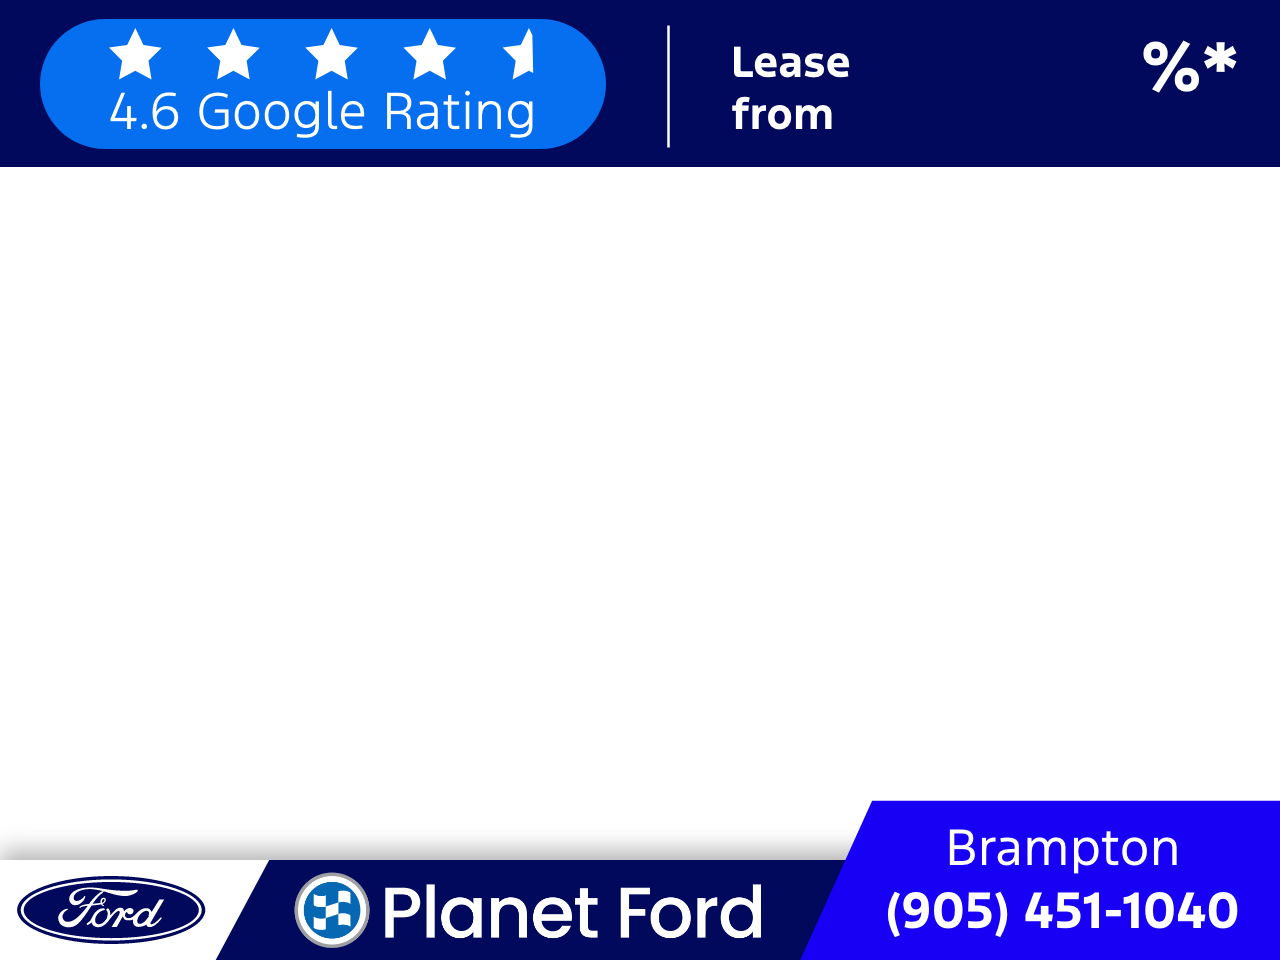
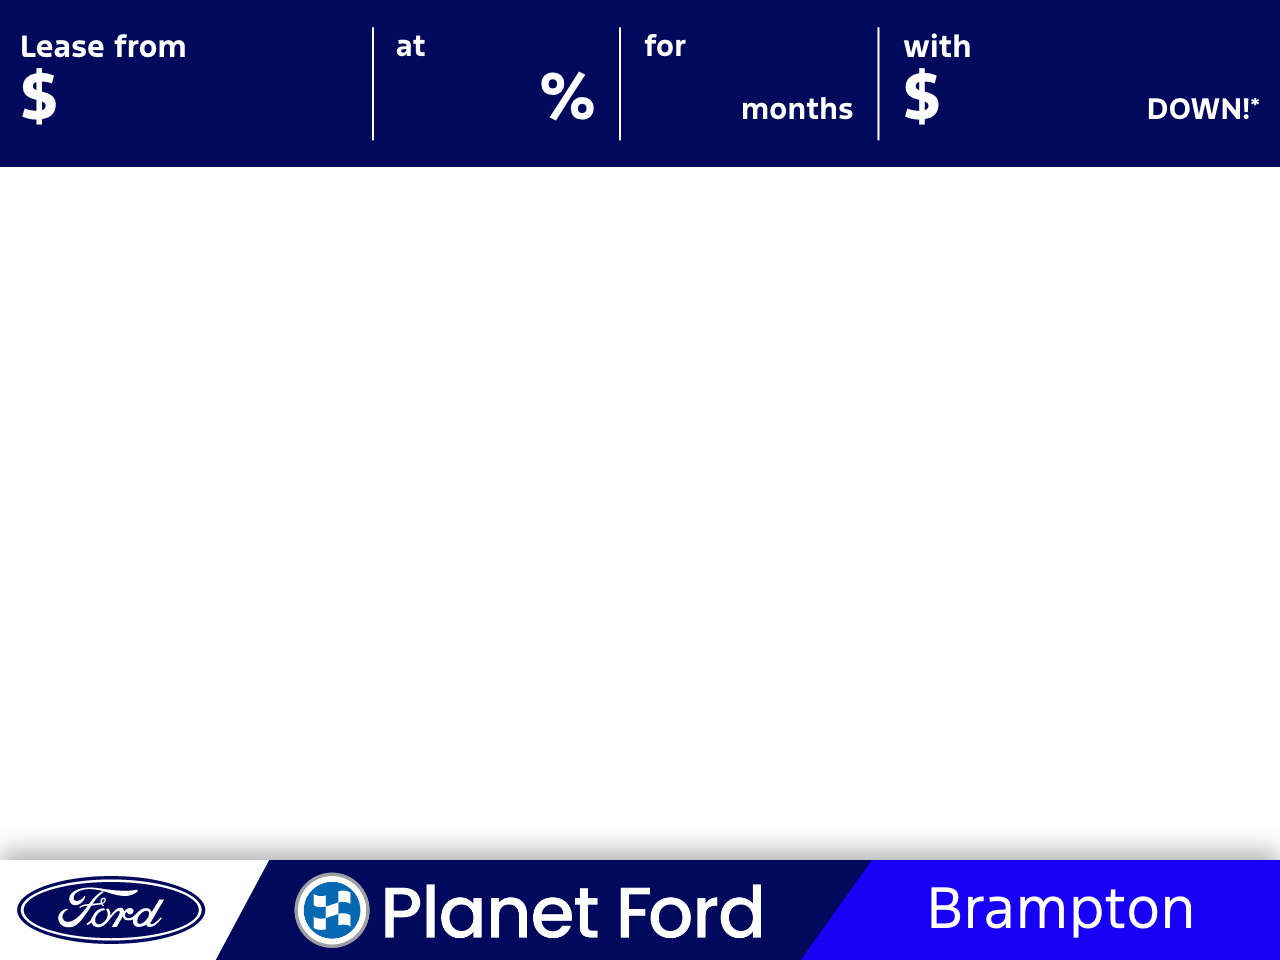
Lease tile: four variable fields (payment, rate, term, down)
Swap template.png for the new lease tile and rewrite index.html so the
tool takes bi-weekly payment, rate, term and down payment, drawing each
number where the X placeholders sit on reference-layout.png. Long values
shrink to fit between the printed labels.

diff --git a/index.html b/index.html
@@ -27,86 +27,87 @@
 
         body {
             font-family: 'Ford Antenna Cond', 'Arial Narrow', sans-serif;
-            background: var(--bg-gray); 
-            display: flex; 
-            flex-direction: column; 
-            align-items: center; 
-            padding: 40px 20px; 
-            margin: 0; 
+            background: var(--bg-gray);
+            display: flex;
+            flex-direction: column;
+            align-items: center;
+            padding: 40px 20px;
+            margin: 0;
         }
-        
-        .container { 
-            background: white; 
-            padding: 35px; 
-            border-radius: 16px; 
-            box-shadow: 0 10px 30px rgba(0,0,0,0.1); 
-            max-width: 1000px; 
-            width: 100%; 
-            text-align: center; 
+
+        .container {
+            background: white;
+            padding: 35px;
+            border-radius: 16px;
+            box-shadow: 0 10px 30px rgba(0,0,0,0.1);
+            max-width: 1000px;
+            width: 100%;
+            text-align: center;
         }
-        
-        h2 { 
-            margin-top: 0; 
-            color: var(--brand-black); 
+
+        h2 {
+            margin-top: 0;
+            color: var(--brand-black);
             text-transform: uppercase;
             letter-spacing: 1px;
         }
 
-        .controls { 
-            display: flex; 
-            justify-content: center; 
-            gap: 20px; 
-            margin-bottom: 30px; 
-            align-items: flex-end; 
+        .controls {
+            display: flex;
+            justify-content: center;
+            gap: 20px;
+            margin-bottom: 30px;
+            align-items: flex-end;
+            flex-wrap: wrap;
         }
-        
-        .field-group { 
-            display: flex; 
-            flex-direction: column; 
-            text-align: left; 
+
+        .field-group {
+            display: flex;
+            flex-direction: column;
+            text-align: left;
         }
-        
-        label { 
-            font-size: 11px; 
-            font-weight: 700; 
-            color: #666; 
-            margin-bottom: 8px; 
-            text-transform: uppercase; 
+
+        label {
+            font-size: 11px;
+            font-weight: 700;
+            color: #666;
+            margin-bottom: 8px;
+            text-transform: uppercase;
         }
-        
-        input { 
-            padding: 12px; 
-            border-radius: 8px; 
-            border: 2px solid var(--brand-black); 
-            font-size: 24px; 
-            font-weight: 800; 
-            width: 180px; 
-            text-align: center; 
-            outline: none; 
+
+        input {
+            padding: 12px;
+            border-radius: 8px;
+            border: 2px solid var(--brand-black);
+            font-size: 24px;
+            font-weight: 800;
+            width: 140px;
+            text-align: center;
+            outline: none;
         }
-        
-        button { 
-            background: var(--brand-black); 
-            color: white; 
-            border: none; 
-            padding: 16px 32px; 
-            border-radius: 8px; 
-            font-size: 16px; 
-            font-weight: 800; 
-            cursor: pointer; 
-            transition: 0.2s; 
+
+        button {
+            background: var(--brand-black);
+            color: white;
+            border: none;
+            padding: 16px 32px;
+            border-radius: 8px;
+            font-size: 16px;
+            font-weight: 800;
+            cursor: pointer;
+            transition: 0.2s;
         }
-        
-        button:hover { 
-            background: #333; 
-            transform: translateY(-2px); 
+
+        button:hover {
+            background: #333;
+            transform: translateY(-2px);
         }
-        
-        canvas { 
-            border: 1px solid #eee; 
-            max-width: 100%; 
-            height: auto; 
-            border-radius: 8px; 
+
+        canvas {
+            border: 1px solid #eee;
+            max-width: 100%;
+            height: auto;
+            border-radius: 8px;
             background-color: #fff;
         }
     </style>
@@ -114,12 +115,24 @@
 <body>
 
 <div class="container">
-    <h2>Ford Overlay Tool Lease</h2>
+    <h2>Ford Lease Overlay Tool</h2>
 
     <div class="controls">
         <div class="field-group">
-            <label>Finance Rate</label>
-            <input type="text" id="priceInput" value="" placeholder="---" maxlength="4">
+            <label>Bi-weekly payment ($)</label>
+            <input type="text" id="paymentInput" value="" placeholder="299" maxlength="6">
+        </div>
+        <div class="field-group">
+            <label>Rate (%)</label>
+            <input type="text" id="rateInput" value="" placeholder="2.99" maxlength="6">
+        </div>
+        <div class="field-group">
+            <label>Term (months)</label>
+            <input type="text" id="termInput" value="" placeholder="48" maxlength="3">
+        </div>
+        <div class="field-group">
+            <label>Down payment ($)</label>
+            <input type="text" id="downInput" value="" placeholder="2,500" maxlength="8">
         </div>
         <button id="downloadBtn">Download Final PNG</button>
     </div>
@@ -130,13 +143,34 @@
 <script>
     const canvas = document.getElementById('canvas');
     const ctx = canvas.getContext('2d');
-    const priceInput = document.getElementById('priceInput');
     const downloadBtn = document.getElementById('downloadBtn');
-    
-    // Core Coordinates
-    const X_POS = 870;     
-    const Y_POS = 120;      
-    const FONT_SIZE = 120; 
+
+    const inputs = {
+        payment: document.getElementById('paymentInput'),
+        rate:    document.getElementById('rateInput'),
+        term:    document.getElementById('termInput'),
+        down:    document.getElementById('downInput'),
+    };
+
+    // ---- Layout (measured from reference-layout.png, the tile with the X's) ----
+    // All big numbers sit on the same baseline. The "$", "%", "months" and
+    // "DOWN!*" are already printed on template.png, so we only draw the numbers.
+    const BASELINE   = 118;   // y of the bottom of the digits
+    const BIG_SIZE   = 61;    // digit height ~45px, matches the X's
+    const SMALL_SIZE = 30;    // for the "Bi-weekly" word
+    const FONT       = "'Ford Antenna Cond', 'Arial Narrow', sans-serif";
+
+    const FIELDS = {
+        // Lease from $[XXX] Bi-weekly   -> number starts right after the printed "$"
+        payment: { x: 59,  align: "left",  maxWidth: 200 },
+        // at [X.XX]%                     -> number ends right before the printed "%"
+        rate:    { x: 538, align: "right", maxWidth: 138 },
+        // for [XX] months                -> number starts under "for"
+        term:    { x: 645, align: "left",  maxWidth: 88  },
+        // with $[X,XXX] DOWN!*           -> number starts right after the printed "$"
+        down:    { x: 942, align: "left",  maxWidth: 200 },
+    };
+    const BIWEEKLY_GAP = 21;  // space between the payment and the word "Bi-weekly"
 
     let templateImg = new Image();
     templateImg.src = "template.png";
@@ -144,33 +178,71 @@
     let templateReady = false;
     templateImg.onload = () => { templateReady = true; draw(); };
 
-    document.fonts.load(`900 ${FONT_SIZE}px "Ford Antenna Cond"`).then(() => {
-        if (templateReady) draw();
-    });
+    Promise.all([
+        document.fonts.load(`900 ${BIG_SIZE}px "Ford Antenna Cond"`),
+        document.fonts.load(`700 ${SMALL_SIZE}px "Ford Antenna Cond"`),
+    ]).then(() => { if (templateReady) draw(); });
+
+    // Clean up what the user typed so the tile never shows "$$" or "%%".
+    function clean(key, raw) {
+        let v = raw.trim().replace(/[$%\s]/g, "");
+        if (key === "down" && /^\d+$/.test(v)) {
+            v = Number(v).toLocaleString("en-CA");        // 2500 -> 2,500
+        }
+        if (key === "term") v = v.replace(/[^\d]/g, "");
+        return v;
+    }
+
+    // Draw text at the given size, shrinking it if it would run into the
+    // printed labels. Returns the width actually drawn.
+    function drawFit(text, x, align, maxWidth, size, weight) {
+        let s = size;
+        ctx.font = `${weight} ${s}px ${FONT}`;
+        let w = ctx.measureText(text).width;
+        while (w > maxWidth && s > 20) {
+            s -= 1;
+            ctx.font = `${weight} ${s}px ${FONT}`;
+            w = ctx.measureText(text).width;
+        }
+        ctx.textAlign = align;
+        ctx.fillText(text, x, BASELINE);
+        return w;
+    }
 
     function draw() {
         ctx.clearRect(0, 0, canvas.width, canvas.height);
         ctx.drawImage(templateImg, 0, 0, 1280, 960);
 
-        if (priceInput.value.trim() !== "") {
-            ctx.fillStyle = "white";
-            ctx.font = `900 ${FONT_SIZE}px 'Ford Antenna Cond', 'Arial Narrow', sans-serif`;
-            ctx.textAlign = "left";
-            ctx.textBaseline = "middle"; 
-            ctx.fillText(priceInput.value, X_POS, Y_POS);
+        ctx.fillStyle = "white";
+        ctx.textBaseline = "alphabetic";
+
+        for (const key of Object.keys(FIELDS)) {
+            const value = clean(key, inputs[key].value);
+            if (value === "") continue;
+            const f = FIELDS[key];
+            const w = drawFit(value, f.x, f.align, f.maxWidth, BIG_SIZE, 900);
+
+            if (key === "payment") {
+                drawFit("Bi-weekly", f.x + w + BIWEEKLY_GAP, "left", 160, SMALL_SIZE, 700);
+            }
         }
     }
 
-    priceInput.addEventListener('input', draw);
+    Object.values(inputs).forEach(el => el.addEventListener('input', draw));
 
     downloadBtn.addEventListener('click', () => {
-        if (priceInput.value.trim() === "") {
-            alert("Please enter a price before downloading.");
+        const missing = Object.keys(inputs).filter(k => inputs[k].value.trim() === "");
+        if (missing.length) {
+            alert("Please fill in all four fields before downloading.");
             return;
         }
+        const p = clean("payment", inputs.payment.value);
+        const r = clean("rate", inputs.rate.value);
+        const t = clean("term", inputs.term.value);
+        const d = clean("down", inputs.down.value).replace(/,/g, "");
 
         const link = document.createElement('a');
-        link.download = `Ford_Deal_${priceInput.value}.png`;
+        link.download = `Ford_Lease_${p}bw_${r}pct_${t}mo_${d}down.png`;
         link.href = canvas.toDataURL("image/png");
         document.body.appendChild(link);
         link.click();
@@ -179,5 +251,3 @@
 </script>
 </body>
 </html>
-
-
